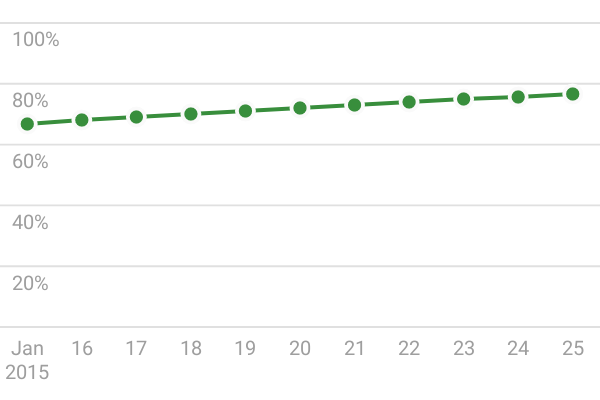
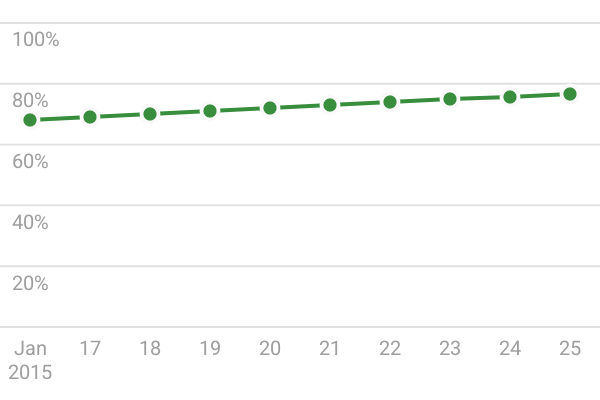
Fix ScoreCardViewTest firstWeekday and update baseline screenshots

diff --git a/uhabits-android/src/androidTest/java/org/isoron/uhabits/activities/habits/show/views/ScoreCardViewTest.kt b/uhabits-android/src/androidTest/java/org/isoron/uhabits/activities/habits/show/views/ScoreCardViewTest.kt
@@ -47,7 +47,7 @@ class ScoreCardViewTest : BaseViewTest() {
         view.setState(
             buildState(
                 habit = habit,
-                firstWeekday = 0,
+                firstWeekday = 7,
                 spinnerPosition = 0,
                 theme = LightTheme()
             )
